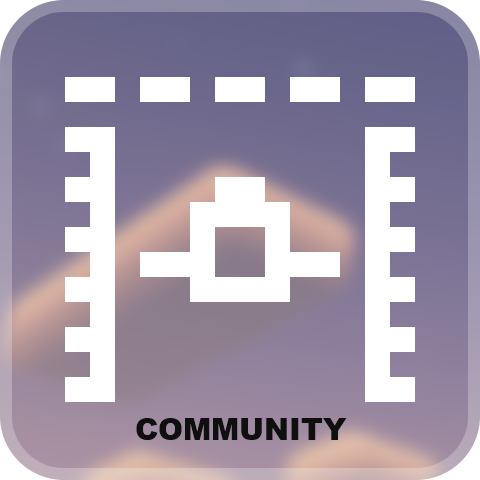
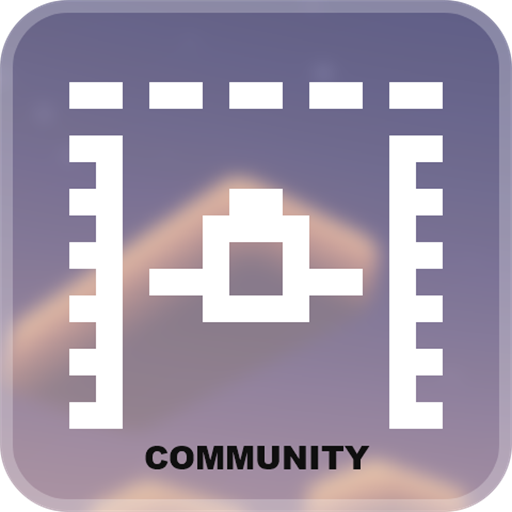
fix: restore the CI build and correct release metadata
- drop the leftover Stonecutter version nodes whose gradle.properties were
  deleted, which broke any build that configured all projects
- CI: use Temurin JDK 27 via setup-java v5; Microsoft's distribution has no
  JDK 27, so every run failed at "Setup JDK"
- regenerate the project icon at 512x512
- declare java >=25 in the mod metadata to match the compiled classes
- fix a README wording issue and bump the version to 3.2.1

diff --git a/CHANGELOG.md b/CHANGELOG.md
@@ -1,5 +1,13 @@
 Please report bugs on [GitHub](https://github.com/Resident007/FlightAssistant-HUD-Edition/issues). This is an unofficial fork, so please don't report its problems to the original FlightAssistant projects.
 
+## Changes in 3.2.1
+
+Release metadata and build fixes. No gameplay or HUD behaviour changed.
+
+- Fixed the CI build: removed the leftover version nodes whose configuration files were deleted, and pinned the workflow to Temurin JDK 27 (Microsoft's build has no JDK 27)
+- Project icon is now 512×512
+- Declared `java >=25` in the mod metadata, matching the compiled class version
+
 ## Changes in 3.2.0
 
 First release of FlightAssistant HUD Edition, a read-only fork for servers that do not allow flight automation.

diff --git a/README.md b/README.md
@@ -76,7 +76,7 @@ The jar ends up in `versions/26.3-fabric/build/libs/`.
 
 ## Modrinth
 
-This fork planned to be published on Modrinth as a separate, unofficial project soon. It is not a replacement for the original mod, and its project page is independent of the original authors' pages.
+This fork is planned to be published on Modrinth as a separate, unofficial project soon. It is not a replacement for the original mod, and its project page is independent of the original authors' pages.
 
 ## Credits and license
 
